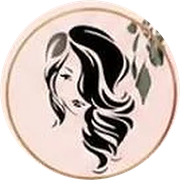
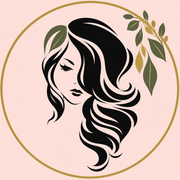
صور حقيقية للمنتجات والواجهة والأقسام وشعار بدقة عالية
- أربع صور منتجات بشعار المتجر والاسم العربي على الملصق (الكركم، العكر الفارسي، النيلة المغربية، زيت الشعر)
- صورة الواجهة لكل المنتجات، وصورتا قسمي الشعر والبشرة، وقسم «تسوّقي حسب القسم» في الرئيسية
- الشعار وأيقونات الموقع من نسخة واضحة عالية الدقة
- أسماء ملفات جديدة (-v2) بسبب كاش /brand، وتحديث seed.sql و install.sql
- تحميل صورة الواجهة الصحيحة مسبقاً، وحذف الصور القديمة غير المستخدمة

diff --git a/src/data/seed.js b/src/data/seed.js
@@ -16,7 +16,7 @@ export const seedCategories = [
 const RAW_PRODUCTS = [
   {
     id: 'hair-oil', name: 'زيت الشعر', price: 130, salePrice: null, categoryId: 'hair-care',
-    image: '/brand/products/hair-oil.webp', badge: '', featured: true, sort: 1,
+    image: '/brand/products/hair-oil-v2.webp', badge: '', featured: true, sort: 1,
     summary: 'زيت للشعر تستخدمينه ثلاث مرات بالأسبوع على فروة الشعر وأطرافه، لروتين عناية يدلّع شعرك.',
     description: `زيت الشعر من عناية ميمي، رفيقك في روتين العناية بشعرك. تدليك فروة الشعر بالزيت عادة جميلة توارثناها من أمهاتنا وجداتنا، ولحظة هدوء تعطين فيها شعرك وقته. وزّعيه على الفروة بأطراف أصابعك ومرّريه على الأطراف، وخلي شعرك يحس بالفرق مع الاستمرار.
 ## طريقة الاستخدام
@@ -31,7 +31,7 @@ const RAW_PRODUCTS = [
   },
   {
     id: 'turmeric-soap', name: 'صابونية الكركم', price: 90, salePrice: null, categoryId: 'skin-care',
-    image: '/brand/products/turmeric-soap.webp', badge: '', featured: true, sort: 2,
+    image: '/brand/products/turmeric-soap-v2.webp', badge: '', featured: true, sort: 2,
     summary: 'صابونية كريمية بالكركم الذهبي، تدلّعين فيها بشرتك وقت الاستحمام.',
     description: `صابونية الكركم من عناية ميمي، خلطة صابونية ناعمة بلون الكركم الذهبي تضيفينها لروتين الاستحمام وتحسين بعدها بالانتعاش. الكركم من المكونات اللي استخدمتها الجدات من زمان في خلطات العناية بالبشرة، وجبناه لك في علبة تفتحينها كل مرة وتستمتعين.
 ## طريقة الاستخدام
@@ -46,7 +46,7 @@ const RAW_PRODUCTS = [
   },
   {
     id: 'persian-akar-soap', name: 'صابونية العكر الفارسي', price: 90, salePrice: null, categoryId: 'skin-care',
-    image: '/brand/products/persian-akar-soap.webp', badge: '', featured: true, sort: 3,
+    image: '/brand/products/persian-akar-soap-v2.webp', badge: '', featured: true, sort: 3,
     summary: 'صابونية بالعكر الفارسي، من أسرار العناية القديمة عند الخليجيات.',
     description: `صابونية العكر الفارسي من عناية ميمي. العكر الفارسي من المكونات المعروفة في خلطات العناية التقليدية عند الخليجيات، وارتبط اسمه بالنضارة والدلع. حطّيناه لك في خلطة صابونية ناعمة تخلي وقت الاستحمام لحظة عناية فعلية.
 ## طريقة الاستخدام
@@ -60,7 +60,7 @@ const RAW_PRODUCTS = [
   },
   {
     id: 'moroccan-nila-soap', name: 'صابونية النيلة المغربية', price: 90, salePrice: null, categoryId: 'skin-care',
-    image: '/brand/products/moroccan-nila-soap.webp', badge: '', featured: true, sort: 4,
+    image: '/brand/products/moroccan-nila-soap-v2.webp', badge: '', featured: true, sort: 4,
     summary: 'صابونية بالنيلة الزرقاء المغربية، لمسة من طقوس الحمام المغربي في بيتك.',
     description: `صابونية النيلة المغربية من عناية ميمي. النيلة الزرقاء من أشهر مكونات طقوس الحمام المغربي، وجبناها لك في خلطة صابونية ناعمة تعيشين فيها أجواء الحمام المغربي في بيتك.
 ## طريقة الاستخدام

diff --git a/src/pages/Home.jsx b/src/pages/Home.jsx
@@ -72,7 +72,7 @@ function Hero({ b: h, first }) {
           <span className="absolute -inset-x-5 -bottom-4 top-10 arch [--arch-b:40px] bg-[var(--p-gold-100)]/70" aria-hidden="true" />
           <span className="arch absolute inset-x-3 -top-3 bottom-6 border border-[var(--p-gold-500)]/60 [--arch-b:28px]" aria-hidden="true" />
           <div className="relative overflow-hidden arch [--arch-b:28px] bg-white p-2.5 shadow-[0_30px_60px_-30px_rgb(125_63_76/0.55)]">
-            <img src={h.image || '/brand/cat-skin-care.webp'} alt="منتجات عناية ميمي" width="900" height="1200" fetchpriority="high" className="aspect-[4/5] w-full arch [--arch-b:22px] object-cover" />
+            <img src={h.image || '/brand/hero-v2.webp'} alt="منتجات عناية ميمي" width="900" height="1200" fetchpriority="high" className="aspect-[4/5] w-full arch [--arch-b:22px] object-cover" />
           </div>
           {PETALS.map(([x, y, s, r], i) => <Petal key={i} x={x} y={y} s={s} r={r} />)}
           {oil && (
@@ -261,10 +261,11 @@ function TextBlock({ b }) {
     </section>
   )
 }
+const countLabel = (n) => (n === 1 ? 'منتج واحد' : n === 2 ? 'منتجان' : `${n} منتجات`)
 function CategoriesBlock({ b }) {
   const { categories, products } = useApp()
   if (!categories.length) return null
-  const ART = { 'hair-care': '/brand/cat-hair-care.webp', 'skin-care': '/brand/cat-skin-care.webp' }
+  const ART = { 'hair-care': '/brand/cat-hair-care-v2.webp', 'skin-care': '/brand/cat-skin-care-v2.webp' }
   return (
     <section className="py-14 sm:py-20">
       <div className="container-w">
@@ -272,9 +273,9 @@ function CategoriesBlock({ b }) {
         <ul className="mx-auto mt-10 grid max-w-[760px] grid-cols-2 gap-5">
           {categories.map((c) => (
             <li key={c.id}><Link to={`/${c.id}`} className="group block text-center">
-              <span className="block overflow-hidden arch [--arch-b:22px] bg-white p-2 shadow-[0_20px_40px_-28px_rgb(125_63_76/0.6)]"><img src={ART[c.id] || '/brand/cat-skin-care.webp'} alt="" loading="lazy" className="aspect-[3/4] w-full arch [--arch-b:16px] object-cover transition-transform duration-700 group-hover:scale-105" /></span>
+              <span className="block overflow-hidden arch [--arch-b:22px] bg-white p-2 shadow-[0_20px_40px_-28px_rgb(125_63_76/0.6)]"><img src={ART[c.id] || '/brand/cat-skin-care-v2.webp'} alt="" loading="lazy" className="aspect-[3/4] w-full arch [--arch-b:16px] object-cover transition-transform duration-700 group-hover:scale-105" /></span>
               <b className="mt-3 block font-display text-[1.2rem] font-semibold text-primary">{c.name}</b>
-              <span className="tabular text-[12.5px] text-muted-foreground">{products.filter((p) => p.categoryId === c.id).length} منتجات</span>
+              <span className="tabular text-[12.5px] text-muted-foreground">{countLabel(products.filter((p) => p.categoryId === c.id).length)}</span>
             </Link></li>
           ))}
         </ul>

diff --git a/src/pages/admin/Designer.jsx b/src/pages/admin/Designer.jsx
@@ -17,7 +17,7 @@ import * as Dialog from '@radix-ui/react-dialog'
 const MAX_IMAGE = 4 * 1024 * 1024
 const BLOCK_ICON = { Sparkles, Image: ImageLucide, BadgeCheck, LayoutGrid, Shapes, PanelLeft, Type, GalleryHorizontal, MessageSquareQuote, CircleHelp, Leaf, Truck }
 const ICON_NAMES = { truck: 'شحن', shield: 'حماية', chat: 'محادثة', leaf: 'ورقة', drop: 'قطرة', gift: 'هدية' }
-const BUILT_IN_CAT = { 'hair-care': '/brand/cat-hair-care.webp', 'skin-care': '/brand/cat-skin-care.webp' }
+const BUILT_IN_CAT = { 'hair-care': '/brand/cat-hair-care-v2.webp', 'skin-care': '/brand/cat-skin-care-v2.webp' }
 const uid = () => 'b' + Math.random().toString(36).slice(2, 8)
 
 /** One image slot: upload, preview on the background it will sit on, back to the original. */
@@ -141,7 +141,7 @@ function BlockForm({ block, onChange, catImages, setCatImage }) {
         if (kind === 'text') control = <Input value={v} maxLength={opt} onChange={(e) => set(key, e.target.value)} />
         else if (kind === 'textarea') control = <Textarea value={v} maxLength={opt} onChange={(e) => set(key, e.target.value)} />
         else if (kind === 'link') control = <LinkInput value={v} onChange={(x) => set(key, x)} />
-        else if (kind === 'image') return <div key={key} className="sm:col-span-2"><ImageSlot tall label={label} value={v} fallback={block.type === 'hero' ? (key === 'image' ? '/brand/ai/raed-hero-v3.webp' : '/brand/ai/raed-hero-mobile-v3.webp') : ''} onChange={(x) => set(key, x)} /></div>
+        else if (kind === 'image') return <div key={key} className="sm:col-span-2"><ImageSlot tall label={label} value={v} fallback={block.type === 'hero' ? (key === 'image' ? '/brand/hero-v2.webp' : '') : ''} onChange={(x) => set(key, x)} /></div>
         else if (kind === 'switch') return <div key={key} className="sm:col-span-2"><Switch checked={!!v} onChange={(x) => set(key, x)} label={label} /></div>
         else if (kind === 'select') control = <Select value={v} onChange={(e) => set(key, e.target.value)}>{opt.map(([x, t]) => <option key={x} value={x}>{t}</option>)}</Select>
         else if (kind === 'number') control = <Input type="number" min={opt[0]} max={opt[1]} value={v} onChange={(e) => set(key, Number(e.target.value))} dir="ltr" className="tabular" />

diff --git a/src/lib/theme.js b/src/lib/theme.js
@@ -70,8 +70,8 @@ export const BLOCK_DEFAULTS = {
   banner: { image: '', imageMobile: '', link: '', alt: '', size: 'container' },
   promises: { items: [{ icon: 'truck', title: 'شحن لباب بيتك', text: 'وتتابعين طلبك من حسابك' }, { icon: 'shield', title: 'دفع آمن', text: 'مدى، فيزا، ماستركارد وApple Pay' }, { icon: 'chat', title: 'خدمة العملاء', text: 'نرد عليك على واتساب' }] },
   products: { title: 'منتجاتنا', source: 'latest', category: '', ids: [], limit: 4, viewAll: true },
-  categories: { title: 'الأقسام' },
-  imageText: { kicker: '', title: 'عنوان جذاب', accent: '', text: '', cta: 'اطلب الحين', link: '/shop', image: '', priceOf: '', payIcons: false },
+  categories: { title: 'تسوّقي حسب القسم' },
+  imageText: { kicker: '', title: 'عنوان جذاب', accent: '', text: '', cta: 'اطلبي الحين', link: '/shop', image: '', priceOf: '', payIcons: false },
   text: { title: 'عنوان القسم', text: 'اكتب هنا النص اللي تبيه يظهر لعملائك.', cta: '', link: '', align: 'center' },
   reviews: { title: 'آراء العميلات' },
   faq: { title: 'قبل ما تطلبين' },
@@ -83,6 +83,7 @@ export const BLOCK_DEFAULTS = {
 export const defaultHome = (hero = {}) => [
   { id: 'hero', type: 'hero', on: true, ...HERO, ...hero },
   { id: 'products', type: 'products', on: true, title: 'منتجاتنا', source: 'latest', category: '', ids: [], limit: 8, viewAll: false },
+  { id: 'categories', type: 'categories', on: true, ...BLOCK_DEFAULTS.categories },
   { id: 'ingredients', type: 'ingredients', on: true, ...BLOCK_DEFAULTS.ingredients },
   { id: 'journey', type: 'journey', on: true, ...BLOCK_DEFAULTS.journey },
   { id: 'reviews', type: 'reviews', on: true, ...BLOCK_DEFAULTS.reviews },

diff --git a/src/lib/seo.js b/src/lib/seo.js
@@ -28,7 +28,7 @@ export const SITE = {
   description: 'عناية ميمي: صابونية الكركم، صابونية العكر الفارسي، صابونية النيلة المغربية وزيت الشعر. اطلبيها أونلاين وتوصلك لباب بيتك.',
 }
 
-const CAT_ART = { 'hair-care': '/brand/cat-hair-care.webp', 'skin-care': '/brand/cat-skin-care.webp' }
+const CAT_ART = { 'hair-care': '/brand/cat-hair-care-v2.webp', 'skin-care': '/brand/cat-skin-care-v2.webp' }
 
 // Search titles/descriptions per section and product (blank = built from the catalog).
 const SEO_CAT = {

diff --git a/CLAUDE.md b/CLAUDE.md
@@ -35,7 +35,9 @@ A custom-coded store for hair and skin care products, forked (Oct 2026) from Rae
 - Catalog seed: `src/data/seed.js` → `node scripts/seed-sql.mjs` writes `supabase/seed.sql`.
 - Checkout + address: `src/pages/Checkout.jsx`, `src/lib/address.js`. Admin order sheet shows the address + «نسخ العنوان للشحن».
 - Policies: `src/data/terms.js` (DRAFT — the owner reviews returns/shipping wording and adds her CR / freelance number).
-- Images: `public/brand/` (hero, banners, category art, products). `/brand/*` is cached 30 days: a new image = a new file name.
+- Images: `public/brand/` (`hero-v2.webp`, `cat-*-v2.webp`, `products/*-v2.webp`). `/brand/*` is cached 30 days: a new image = a new file name.
+  They are product photos generated with Codex (gpt-image) on 27 Oct 2026: scene with the exact Arabic label text and no reference image, then an edit pass with the HD logo as reference.
+  `scripts/brand-art.mjs` is the old code-drawn fallback (writes the pre-v2 names); don't run it over the photos.
 
 ## Database
 - New project: run `supabase/install.sql` once in the SQL Editor (generated by `node scripts/install-sql.mjs` from the files in order). Then make the owner admin:
